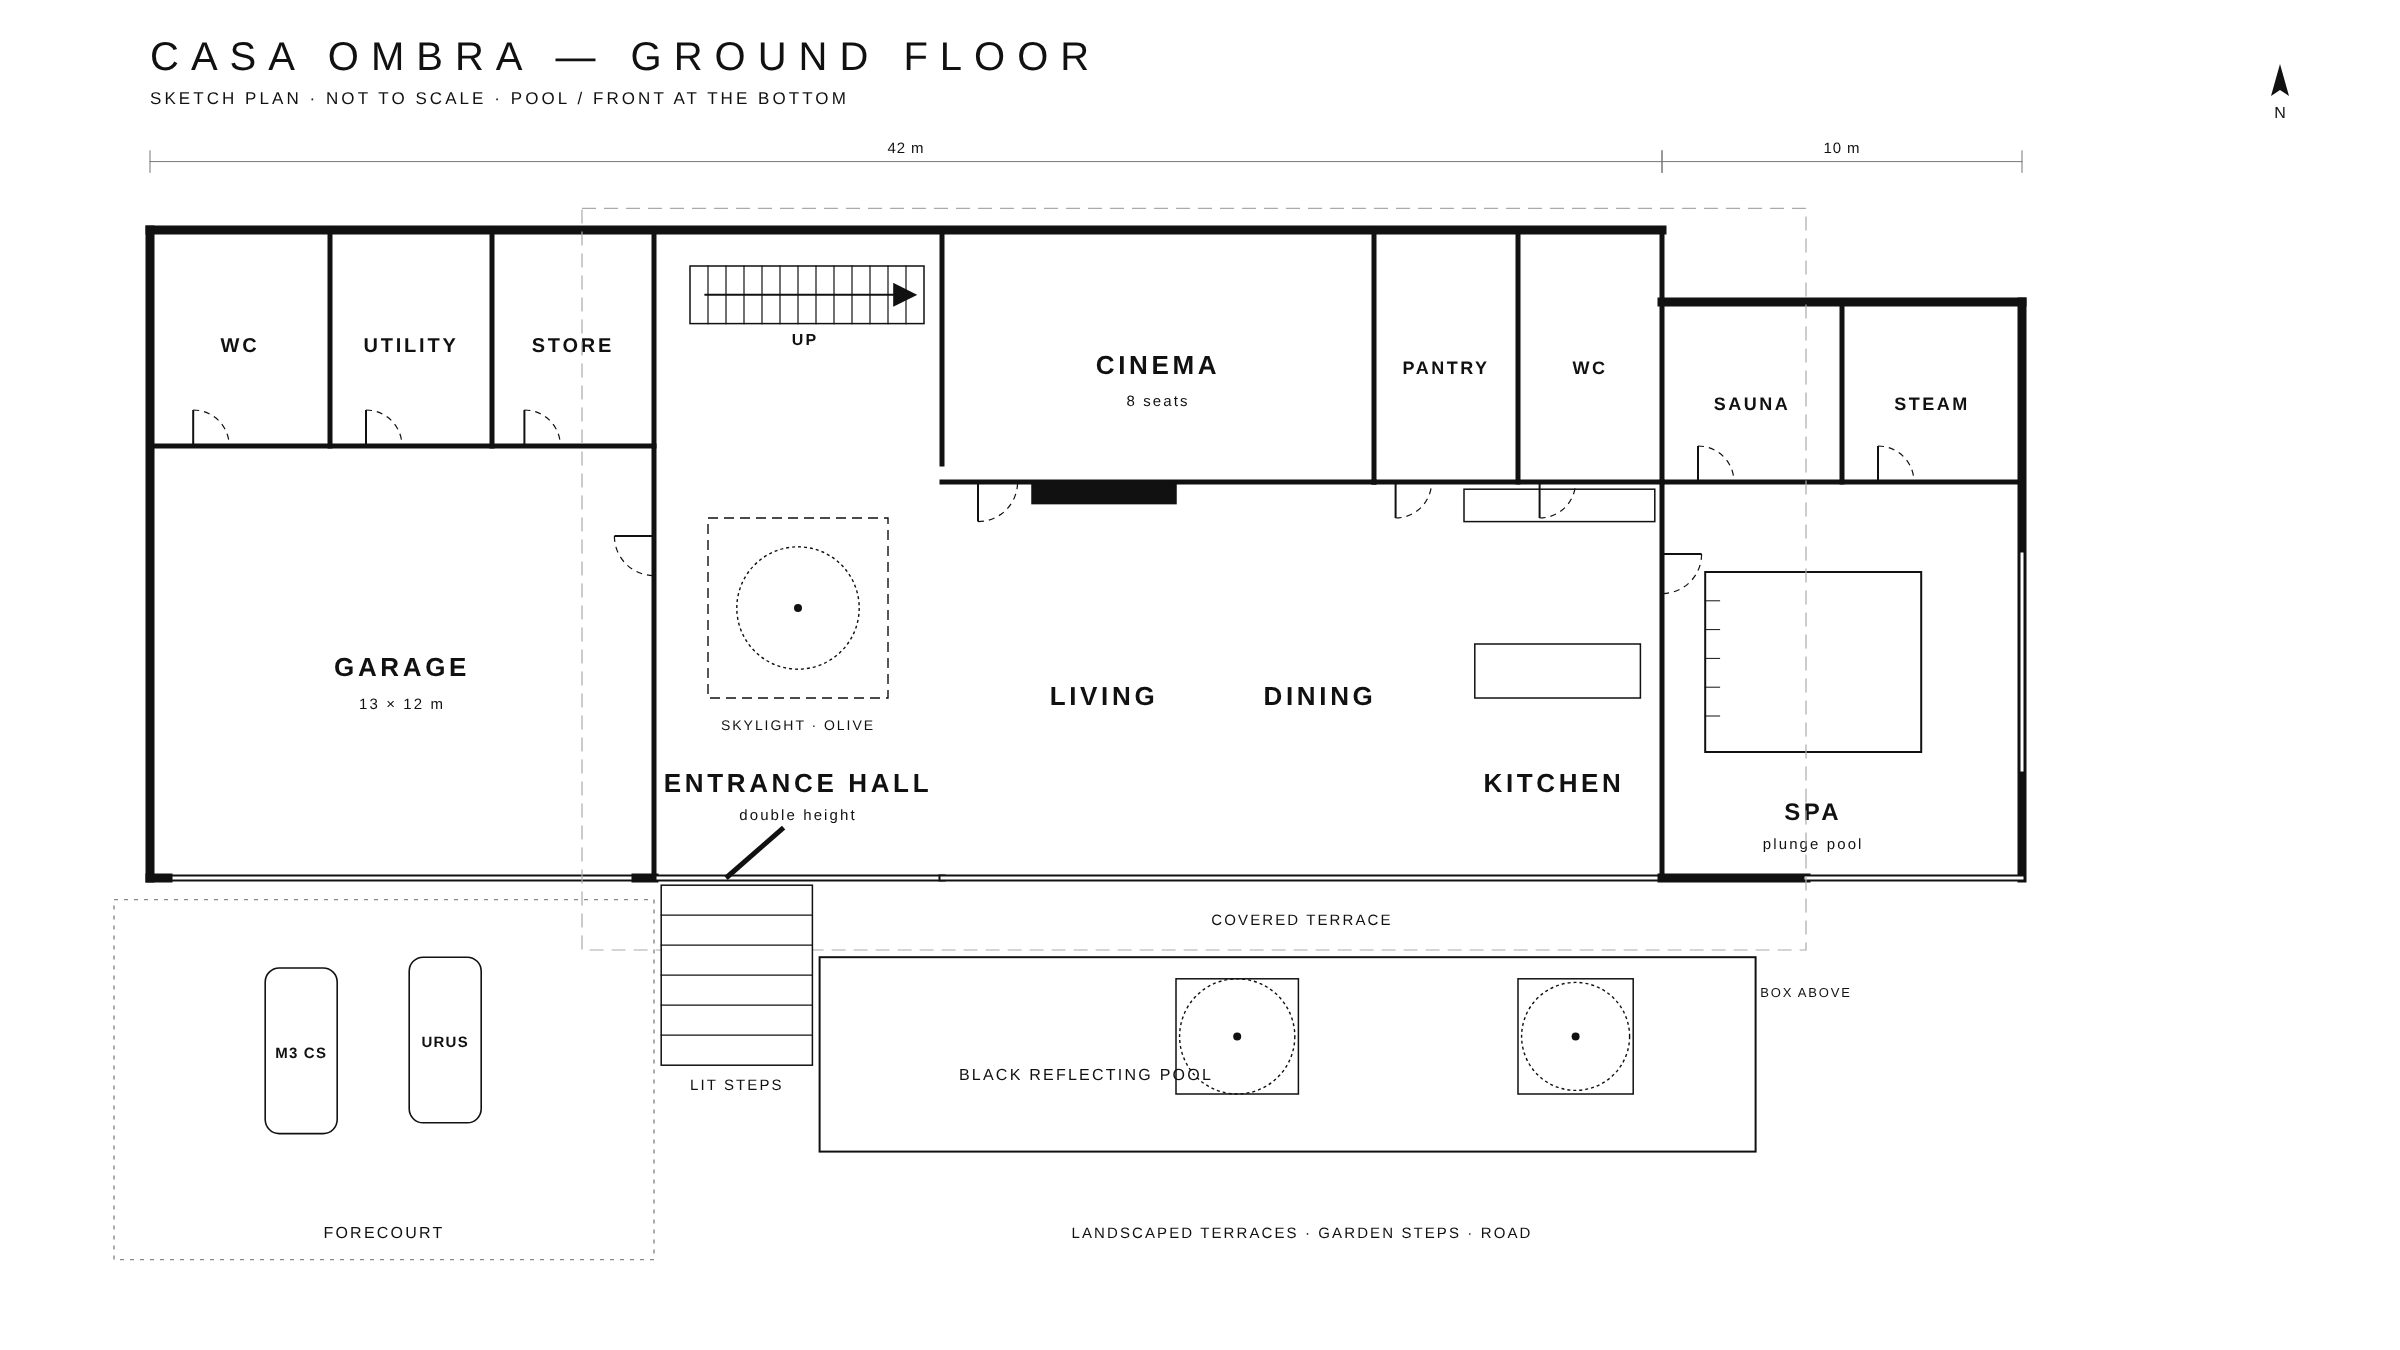
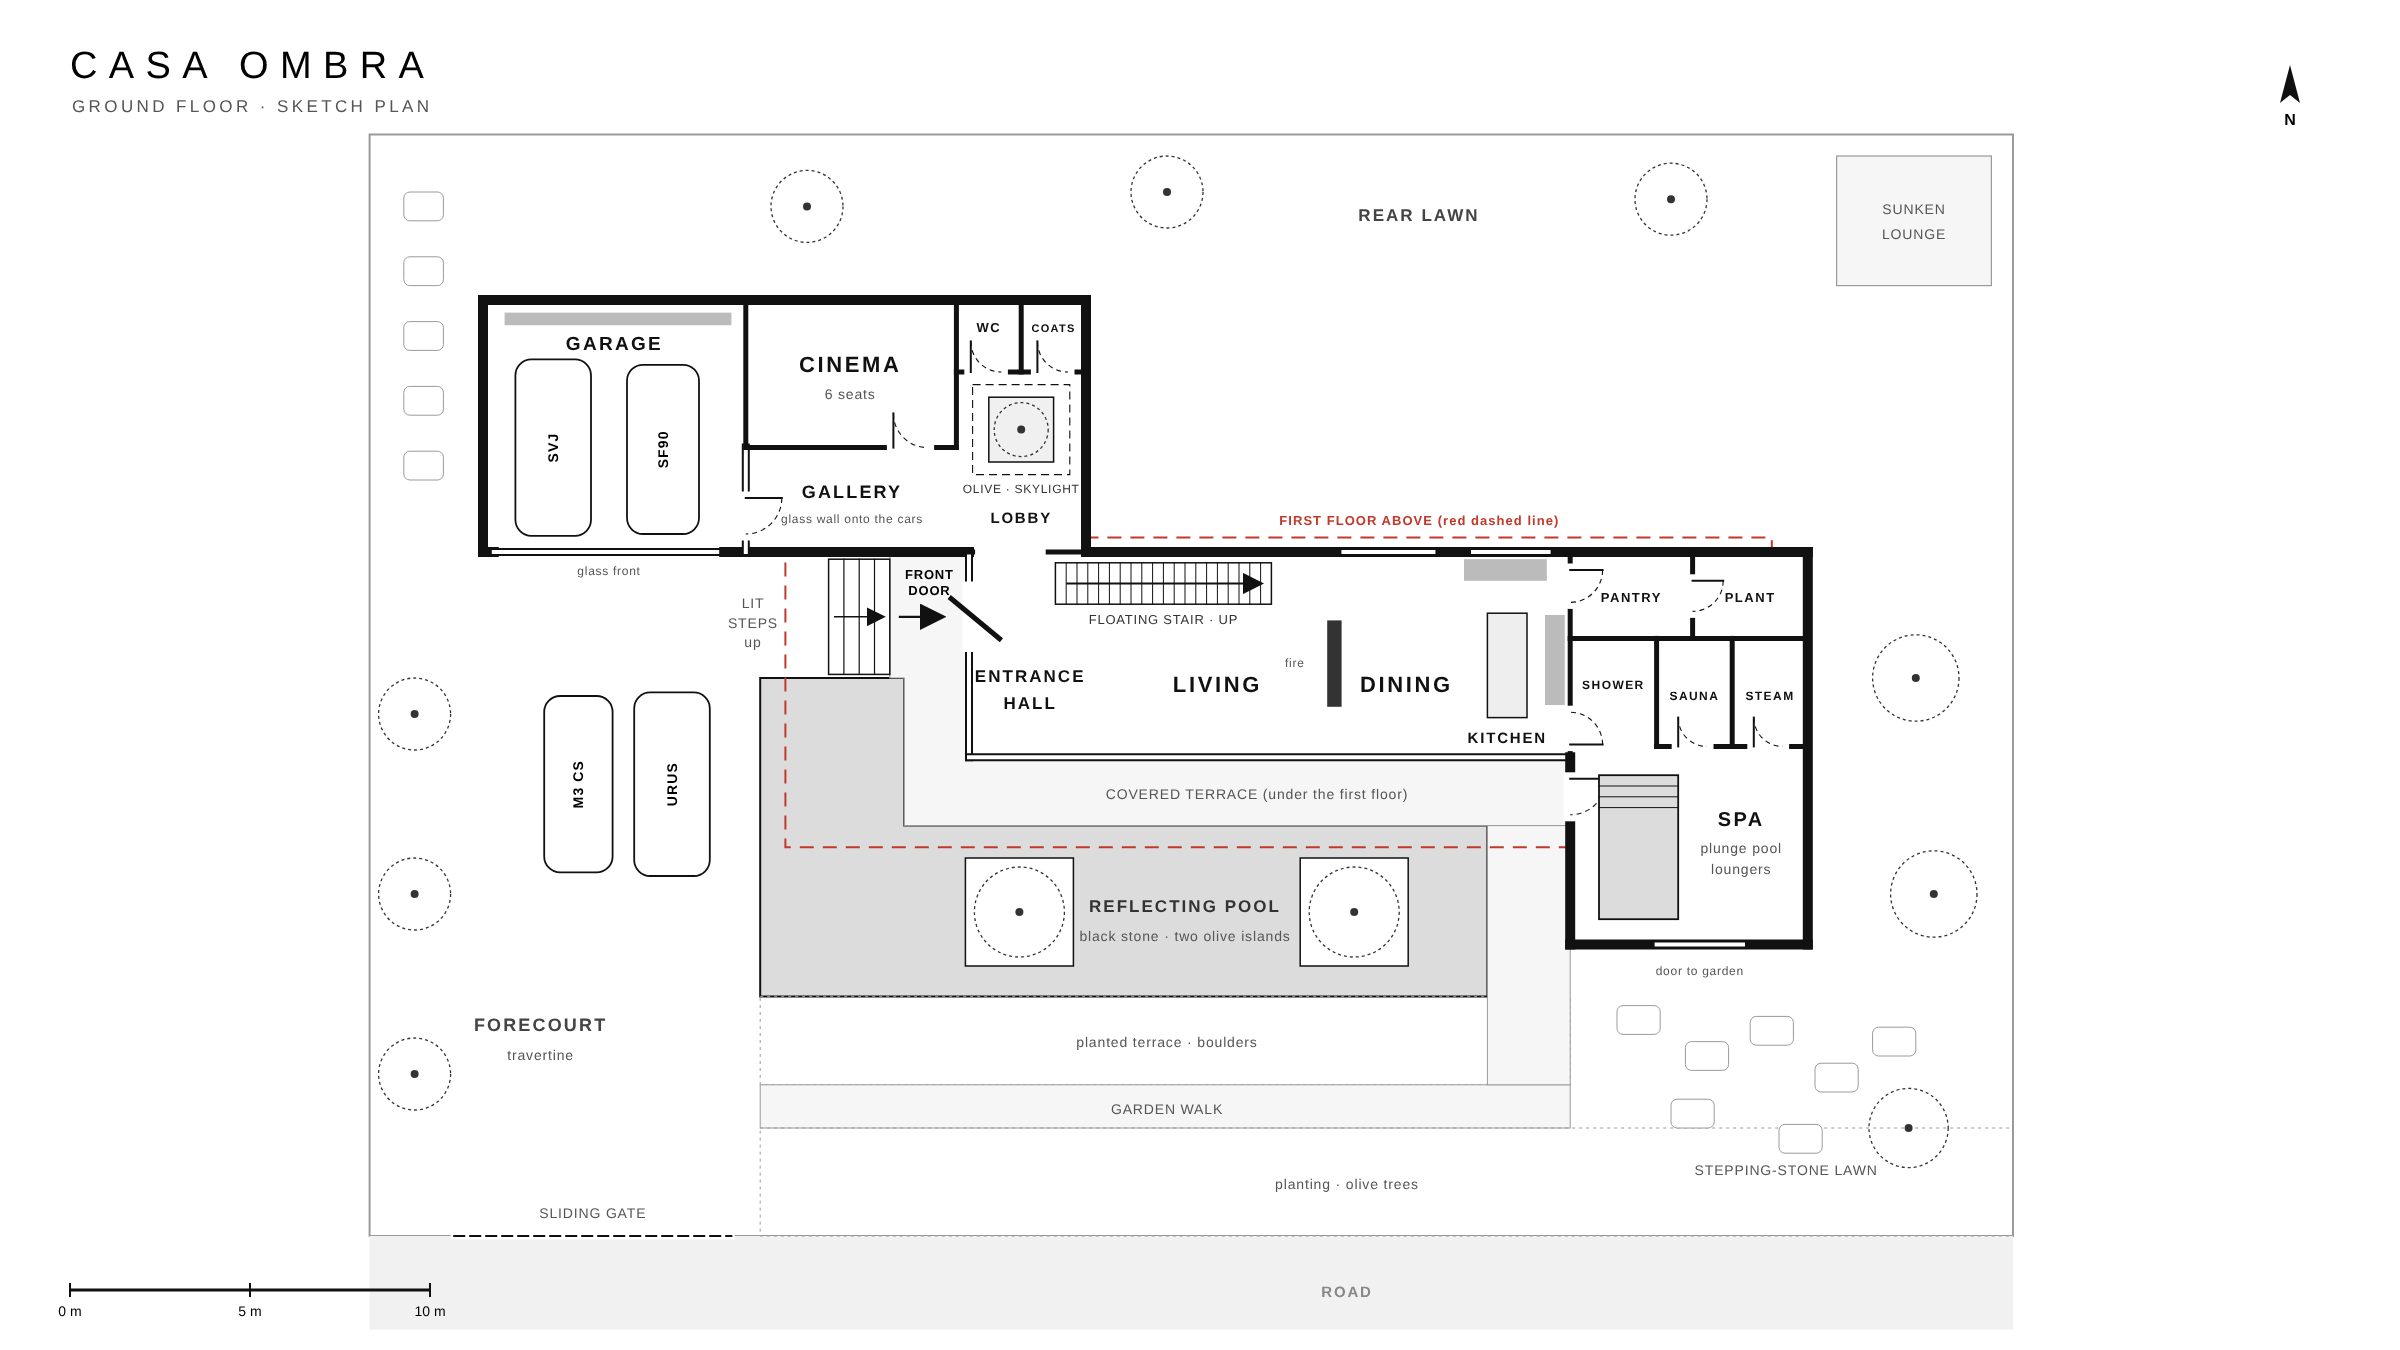
Casa Ombra: ground-floor sketch re-measured from the bird's-eye photo
Footprint (garage block, upper box, spa wing, pool, terrace) derived from the
aerial via camera calibration and checked by overlay; older guessed plans removed.

Claude-Session: https://claude.ai/code/session_01XZWwz38RPfRpcTZUtchytw

diff --git a/casa-ombra/plan/ground-sketch.py b/casa-ombra/plan/ground-sketch.py
@@ -1,0 +1,177 @@
+"""Casa Ombra ground-floor sketch -> SVG. Geometry measured from the bird's-eye photo (see model2.py)."""
+import sys
+
+S, OX, OY = 36, 483, 300
+W, H = 2400, 1350
+INK = '#111'
+o = []
+
+def X(v): return OX + v * S
+def Y(v): return OY + v * S
+
+def line(a, b, c, d, w=2, col=INK, dash=''):
+    o.append(f'<line x1="{X(a):.1f}" y1="{Y(b):.1f}" x2="{X(c):.1f}" y2="{Y(d):.1f}" stroke="{col}" stroke-width="{w}" '
+             f'{"stroke-dasharray=" + chr(34) + dash + chr(34) if dash else ""} stroke-linecap="square"/>')
+
+def wall(a, b, c, d): line(a, b, c, d, 10)
+def iwall(a, b, c, d): line(a, b, c, d, 5)
+
+def glass(a, b, c, d):
+    line(a, b, c, d, 8, INK)
+    line(a, b, c, d, 4, '#fff')
+
+def rect(x, y, w, h, fill='none', st=INK, sw=1.5, dash='', rx=0):
+    o.append(f'<rect x="{X(x):.1f}" y="{Y(y):.1f}" width="{w*S:.1f}" height="{h*S:.1f}" rx="{rx}" fill="{fill}" stroke="{st}" stroke-width="{sw}" '
+             f'{"stroke-dasharray=" + chr(34) + dash + chr(34) if dash else ""}/>')
+
+def poly(pts, fill='none', st=INK, sw=1.5, dash=''):
+    p = ' '.join(f'{X(x):.1f},{Y(y):.1f}' for x, y in pts)
+    o.append(f'<polygon points="{p}" fill="{fill}" stroke="{st}" stroke-width="{sw}" {"stroke-dasharray=" + chr(34) + dash + chr(34) if dash else ""}/>')
+
+def txt(x, y, s, size=22, weight=700, col=INK, ls='.12em', anchor='middle'):
+    o.append(f'<text x="{X(x):.1f}" y="{Y(y):.1f}" font-size="{size}" font-weight="{weight}" letter-spacing="{ls}" fill="{col}" text-anchor="{anchor}">{s}</text>')
+
+def sub(x, y, s, size=14, col='#555'): txt(x, y, s, size, 400, col, '.06em')
+
+def gap(a, b, c, d):
+    """white-out a door opening in a wall"""
+    line(a, b, c, d, 13, '#fff')
+
+def door_h(x0, y, wd, hinge='l', swing='s'):
+    """door in a horizontal wall at y, opening from x0 to x0+wd; hinge left/right; swings south (+y) or north (-y)"""
+    gap(x0, y, x0 + wd, y)
+    hx = x0 if hinge == 'l' else x0 + wd
+    ex = x0 + wd if hinge == 'l' else x0
+    sy = 1 if swing == 's' else -1
+    line(hx, y, hx, y + sy * wd, 2)
+    sweep = 1 if (hinge == 'l') == (swing == 'n') else 0
+    o.append(f'<path d="M{X(hx):.1f} {Y(y + sy*wd):.1f} A {wd*S:.1f} {wd*S:.1f} 0 0 {1 - sweep} {X(ex):.1f} {Y(y):.1f}" fill="none" stroke="{INK}" stroke-width="1.1" stroke-dasharray="5 4"/>')
+
+def door_v(x, y0, wd, hinge='t', swing='e'):
+    """door in a vertical wall at x, opening from y0 to y0+wd; hinge top/bottom; swings east (+x) or west (-x)"""
+    gap(x, y0, x, y0 + wd)
+    hy = y0 if hinge == 't' else y0 + wd
+    ey = y0 + wd if hinge == 't' else y0
+    sx = 1 if swing == 'e' else -1
+    line(x, hy, x + sx * wd, hy, 2)
+    sweep = 1 if (hinge == 't') == (swing == 'e') else 0
+    o.append(f'<path d="M{X(x + sx*wd):.1f} {Y(hy):.1f} A {wd*S:.1f} {wd*S:.1f} 0 0 {sweep} {X(x):.1f} {Y(ey):.1f}" fill="none" stroke="{INK}" stroke-width="1.1" stroke-dasharray="5 4"/>')
+
+def tree(x, y, r):
+    o.append(f'<circle cx="{X(x):.1f}" cy="{Y(y):.1f}" r="{r*S:.1f}" fill="none" stroke="#333" stroke-width="1.3" stroke-dasharray="3 3"/>'
+             f'<circle cx="{X(x):.1f}" cy="{Y(y):.1f}" r="4" fill="#333"/>')
+
+def car(x0, y0, x1, y1, label):
+    rect(x0, y0, x1 - x0, y1 - y0, '#fff', INK, 1.8, rx=16)
+    o.append(f'<text transform="translate({X((x0+x1)/2):.1f},{Y((y0+y1)/2):.1f}) rotate(-90)" font-size="14" font-weight="700" letter-spacing=".08em" text-anchor="middle" dy="5">{label}</text>')
+
+# ---------- site (light) ----------
+G = '#9a9a9a'
+poly([(-3.15, -4.6), (42.5, -4.6), (42.5, 26.0), (-3.15, 26.0)], 'none', G, 2)                 # plot boundary walls
+rect(-3.15, 26.0, 45.65, 2.6, '#f1f1f1', 'none')                                              # road
+txt(24, 27.7, 'ROAD', 15, 600, '#888')
+line(-0.8, 26.0, 6.9, 26.0, 7, '#fff'); line(-0.8, 26.0, 6.9, 26.0, 2, INK, '10 6'); sub(3.05, 25.5, 'SLIDING GATE')
+# forecourt
+txt(1.6, 20.3, 'FORECOURT', 18, 700, '#444'); sub(1.6, 21.1, 'travertine')
+for ty in (11.5, 16.5, 21.5): tree(-1.9, ty, 1.0)
+# pool + terrace
+poly([(7.7, 10.5), (11.7, 10.5), (11.7, 14.6), (27.9, 14.6), (27.9, 19.35), (7.7, 19.35)], '#dcdcdc', INK, 2)
+for cx in (14.9, 24.2):
+    rect(cx - 1.5, 15.5, 3, 3, '#fff'); tree(cx, 17.0, 1.25)
+txt(19.5, 17.0, 'REFLECTING POOL', 17, 700, '#333'); sub(19.5, 17.8, 'black stone · two olive islands')
+poly([(11.3, 7.0), (13.5, 7.0), (13.5, 12.7), (30.2, 12.7), (30.2, 14.6), (11.7, 14.6), (11.7, 10.5), (11.3, 10.5)], '#f6f6f6', G, 1.2)
+sub(21.5, 13.85, 'COVERED TERRACE (under the first floor)')
+# steps up from the forecourt
+rect(9.6, 7.2, 1.7, 3.2, '#fff', INK, 1.5)
+for i in range(1, 4): line(9.6 + 1.7 * i / 4, 7.2, 9.6 + 1.7 * i / 4, 10.4, 1.2)
+sub(7.5, 8.55, 'LIT'); sub(7.5, 9.1, 'STEPS'); sub(7.5, 9.65, 'up'); o.append(f'<line x1="{X(9.75)}" y1="{Y(8.8)}" x2="{X(11.1)}" y2="{Y(8.8)}" stroke="{INK}" stroke-width="1.6" marker-end="url(#ah)"/>')
+# garden south of the pool
+rect(7.7, 19.35, 22.5, 2.45, 'none', G, 1, '3 4'); rect(7.7, 21.8, 22.5, 1.2, '#f6f6f6', G, 1); rect(7.7, 23.0, 34.8, 3.0, 'none', G, 1, '3 4')
+sub(19, 20.75, 'planted terrace · boulders'); sub(19, 22.6, 'GARDEN WALK'); sub(24, 24.7, 'planting · olive trees')
+rect(27.9, 14.6, 2.3, 7.2, '#f6f6f6', G, 1)
+for (sx, sy) in ((31.5, 19.6), (33.4, 20.6), (35.2, 19.9), (37.0, 21.2), (38.6, 20.2), (33.0, 22.2), (36.0, 22.9)): rect(sx, sy, 1.2, 0.8, '#fff', G, 1, rx=6)
+sub(36.2, 24.3, 'STEPPING-STONE LAWN'); tree(39.6, 23.0, 1.1); tree(40.3, 16.5, 1.2); tree(39.8, 10.5, 1.2)
+# rear garden
+txt(26, -2.2, 'REAR LAWN', 17, 700, '#444'); rect(37.6, -4.0, 4.3, 3.6, '#f6f6f6', G, 1.2); sub(39.75, -2.4, 'SUNKEN'); sub(39.75, -1.7, 'LOUNGE')
+for sy in (-3.0, -1.2, 0.6, 2.4, 4.2): rect(-2.2, sy, 1.1, 0.8, '#fff', G, 1, rx=6)
+tree(9, -2.6, 1.0); tree(19, -3.0, 1.0); tree(33, -2.8, 1.0)
+# first-floor box above
+rect(8.4, 6.6, 27.4, 8.6, 'none', '#c0392b', 2, '14 9')
+txt(22.1, 16.0 - 0.35, '', 13)
+FF_LABEL = f'<text x="{X(29.9):.1f}" y="{Y(6.25):.1f}" font-size="13" font-weight="700" letter-spacing=".08em" fill="#c0392b" text-anchor="end">FIRST FLOOR ABOVE (red dashed line)</text>'
+
+# ---------- building ----------
+# room fills
+rect(0, 0, 16.75, 7.0, '#fff', 'none'); rect(13.5, 7.0, 16.7, 5.7, '#fff', 'none'); rect(30.2, 7.0, 6.6, 10.9, '#fff', 'none')
+# exterior walls
+wall(0, 0, 16.75, 0); wall(0, 0, 0, 7.0); wall(16.75, 0, 16.75, 7.0)
+wall(0, 7.0, 0.3, 7.0); glass(0.3, 7.0, 6.7, 7.0); wall(6.7, 7.0, 13.5, 7.0)
+wall(16.75, 7.0, 30.2, 7.0); glass(23.9, 7.0, 26.4, 7.0); glass(27.5, 7.0, 29.6, 7.0)
+glass(13.5, 7.0, 13.5, 12.7); glass(13.5, 12.7, 30.2, 12.7)
+wall(30.2, 12.7, 30.2, 17.9); wall(30.2, 17.9, 36.8, 17.9); glass(32.6, 17.9, 35.0, 17.9); wall(36.8, 17.9, 36.8, 7.0); wall(36.8, 7.0, 30.2, 7.0)
+# garage | cinema | gallery
+iwall(7.3, 0, 7.3, 4.1); glass(7.3, 4.1, 7.3, 7.0)
+iwall(7.3, 4.1, 13.15, 4.1); iwall(13.15, 0, 13.15, 4.1)
+iwall(13.15, 2.0, 16.75, 2.0); iwall(14.95, 0, 14.95, 2.0)
+# shared wall low block / pavilion with the opening
+iwall(13.5, 7.0, 13.8, 7.0); iwall(15.5, 7.0, 16.75, 7.0); gap(13.85, 7.0, 15.45, 7.0)
+# pavilion | leisure wing
+iwall(30.2, 7.0, 30.2, 12.7)
+iwall(30.2, 9.4, 36.8, 9.4); iwall(33.6, 7.0, 33.6, 9.4); iwall(32.6, 9.4, 32.6, 12.4); iwall(34.7, 9.4, 34.7, 12.4); iwall(32.6, 12.4, 36.8, 12.4)
+# doors
+door_v(7.3, 5.5, 1.0, 't', 'e')                 # garage <-> gallery (glass door)
+door_h(11.4, 4.1, 0.95, 'l', 'n')               # cinema
+door_h(13.55, 2.0, 0.85, 'l', 'n'); door_h(15.4, 2.0, 0.85, 'l', 'n')   # WC, coats
+door_v(30.2, 7.5, 0.9, 't', 'e'); door_v(30.2, 11.45, 0.9, 'b', 'e')    # pantry, spa
+door_v(33.6, 7.8, 0.85, 't', 'e')               # plant
+door_h(33.2, 12.4, 0.8, 'l', 'n'); door_h(35.3, 12.4, 0.8, 'l', 'n')    # sauna, steam
+door_v(30.2, 13.3, 1.0, 't', 'e')               # spa -> terrace
+# front door: glass pivot in the west glass face
+gap(13.5, 8.0, 13.5, 9.6)
+o.append(f'<line x1="{X(13.5 - 0.55):.1f}" y1="{Y(8.25):.1f}" x2="{X(13.5 + 0.9):.1f}" y2="{Y(9.45):.1f}" stroke="{INK}" stroke-width="5"/>')
+o.append(f'<line x1="{X(11.55)}" y1="{Y(8.8)}" x2="{X(12.75)}" y2="{Y(8.8)}" stroke="{INK}" stroke-width="2.2" marker-end="url(#ah)"/>')
+o.append(f'<text x="{X(12.4):.1f}" y="{Y(7.75):.1f}" font-size="13" font-weight="700" letter-spacing=".06em" text-anchor="middle">FRONT</text>')
+o.append(f'<text x="{X(12.4):.1f}" y="{Y(8.2):.1f}" font-size="13" font-weight="700" letter-spacing=".06em" text-anchor="middle">DOOR</text>')
+# stair
+rect(15.9, 7.3, 6.0, 1.15, '#fff', INK, 1.5)
+for i in range(1, 20): line(15.9 + 6.0 * i / 20, 7.3, 15.9 + 6.0 * i / 20, 8.45, 1)
+o.append(f'<line x1="{X(16.2)}" y1="{Y(7.875)}" x2="{X(21.6)}" y2="{Y(7.875)}" stroke="{INK}" stroke-width="1.8" marker-end="url(#ah)"/>')
+sub(18.9, 9.0, 'FLOATING STAIR · UP', 13, '#333')
+# fixed items
+rect(0.6, 0.35, 6.3, 0.35, '#bbb', 'none')
+rect(14.05, 2.7, 1.8, 1.8, '#f0f0f0'); tree(14.95, 3.6, 0.75); rect(13.6, 2.35, 2.7, 2.5, 'none', INK, 1.1, '8 5')
+rect(23.45, 8.9, 0.4, 2.4, '#333', 'none')
+rect(27.9, 8.7, 1.1, 2.9, '#eee'); rect(29.5, 8.75, 0.55, 2.5, '#bbb', 'none'); rect(27.25, 7.2, 2.3, 0.6, '#bbb', 'none')
+rect(31.0, 13.2, 2.2, 4.0, '#dcdcdc', INK, 1.8)
+for i in range(1, 4): line(31.0, 13.2 + 0.3 * i, 33.2, 13.2 + 0.3 * i, 1)
+# cars
+car(0.9, 1.65, 3.0, 6.55, 'SVJ'); car(4.0, 1.8, 6.0, 6.5, 'SF90')
+car(1.7, 11.0, 3.6, 15.9, 'M3 CS'); car(4.2, 10.9, 6.3, 16.0, 'URUS')
+# labels
+txt(3.65, 3.9 - 4.6 + 4.2, '', 1)
+o.append(f'<text x="{X(3.65):.1f}" y="{Y(6.75):.1f}" font-size="0"></text>')
+txt(3.65, 1.4, 'GARAGE', 19); sub(3.5, 7.65, 'glass front', 12); o.append(FF_LABEL)
+txt(10.2, 2.0, 'CINEMA'); sub(10.2, 2.75, '6 seats')
+txt(10.25, 5.5, 'GALLERY', 18); sub(10.25, 6.2, 'glass wall onto the cars', 12)
+txt(14.05, 0.9, 'WC', 13); txt(15.85, 0.9, 'COATS', 11)
+sub(14.95, 5.35, 'OLIVE · SKYLIGHT', 12, '#333'); txt(14.95, 6.2, 'LOBBY', 15)
+txt(15.2, 10.6, 'ENTRANCE', 17); txt(15.2, 11.35, 'HALL', 17)
+txt(20.4, 10.9, 'LIVING'); txt(25.65, 10.9, 'DINING'); txt(28.45, 12.3, 'KITCHEN', 15)
+sub(22.55, 10.2, 'fire', 12)
+txt(31.9, 8.4, 'PANTRY', 13); txt(35.2, 8.4, 'PLANT', 13)
+txt(31.4, 10.8, 'SHOWER', 12); txt(33.65, 11.1, 'SAUNA', 12); txt(35.75, 11.1, 'STEAM', 12)
+txt(34.95, 14.6, 'SPA', 20); sub(34.95, 15.35, 'plunge pool'); sub(34.95, 15.95, 'loungers')
+sub(33.8, 18.75, 'door to garden', 12)
+
+# title, north, scale
+o.append(f'<text x="70" y="78" font-size="38" letter-spacing=".3em" font-weight="300">CASA OMBRA</text>')
+o.append(f'<text x="72" y="112" font-size="17" letter-spacing=".2em" fill="#555">GROUND FLOOR · SKETCH PLAN</text>')
+o.append(f'<g transform="translate(2290,95)"><polygon points="0,-30 10,8 0,0 -10,8" fill="{INK}"/><text y="30" font-size="16" text-anchor="middle" font-weight="700">N</text></g>')
+bx, by = 70, 1290
+o.append(f'<line x1="{bx}" y1="{by}" x2="{bx + 10*S}" y2="{by}" stroke="{INK}" stroke-width="3"/>')
+for i in (0, 5, 10): o.append(f'<line x1="{bx + i*S}" y1="{by-7}" x2="{bx + i*S}" y2="{by+7}" stroke="{INK}" stroke-width="2"/><text x="{bx + i*S}" y="{by+26}" font-size="14" text-anchor="middle">{i} m</text>')
+
+svg = (f'<svg xmlns="http://www.w3.org/2000/svg" width="{W}" height="{H}" viewBox="0 0 {W} {H}" style="background:#fff;font-family:Helvetica,Arial,sans-serif">'
+       f'<defs><marker id="ah" markerWidth="12" markerHeight="12" refX="10" refY="6" orient="auto"><path d="M0,0 L12,6 L0,12 z" fill="{INK}"/></marker></defs>'
+       f'<rect width="{W}" height="{H}" fill="#fff"/>' + ''.join(o) + '</svg>')
+open(sys.argv[1], 'w').write('<!doctype html><html><body style="margin:0">' + svg + '</body></html>')
